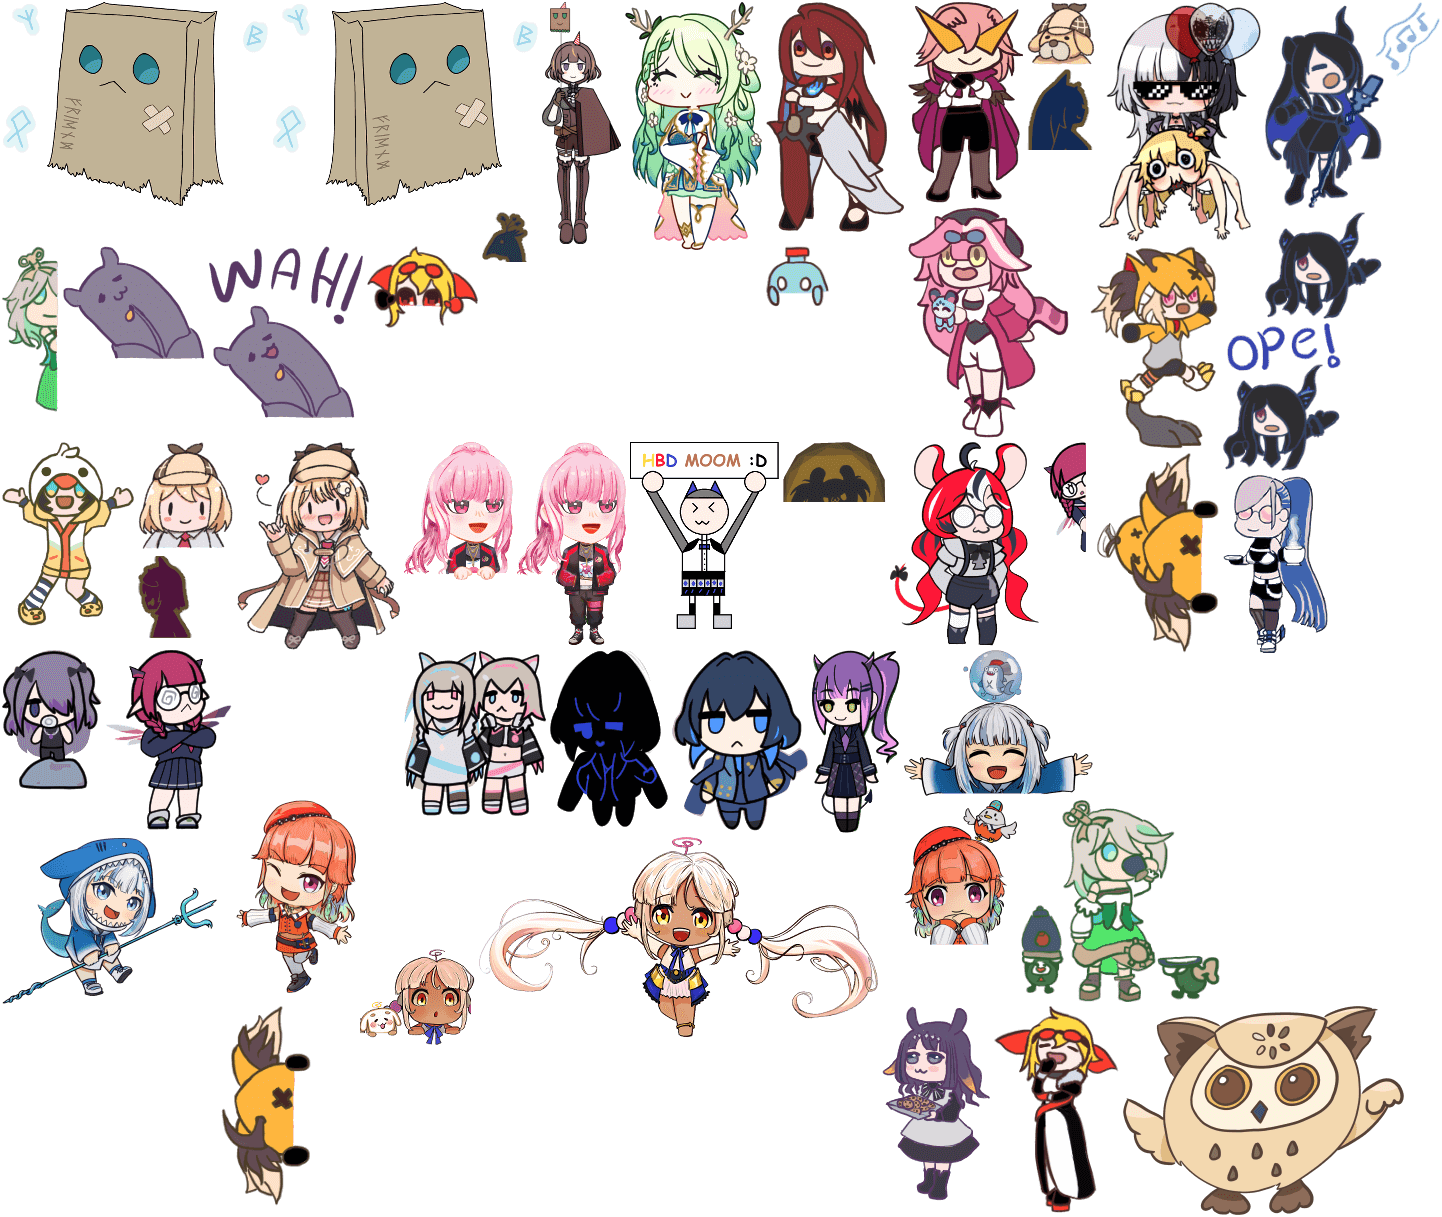
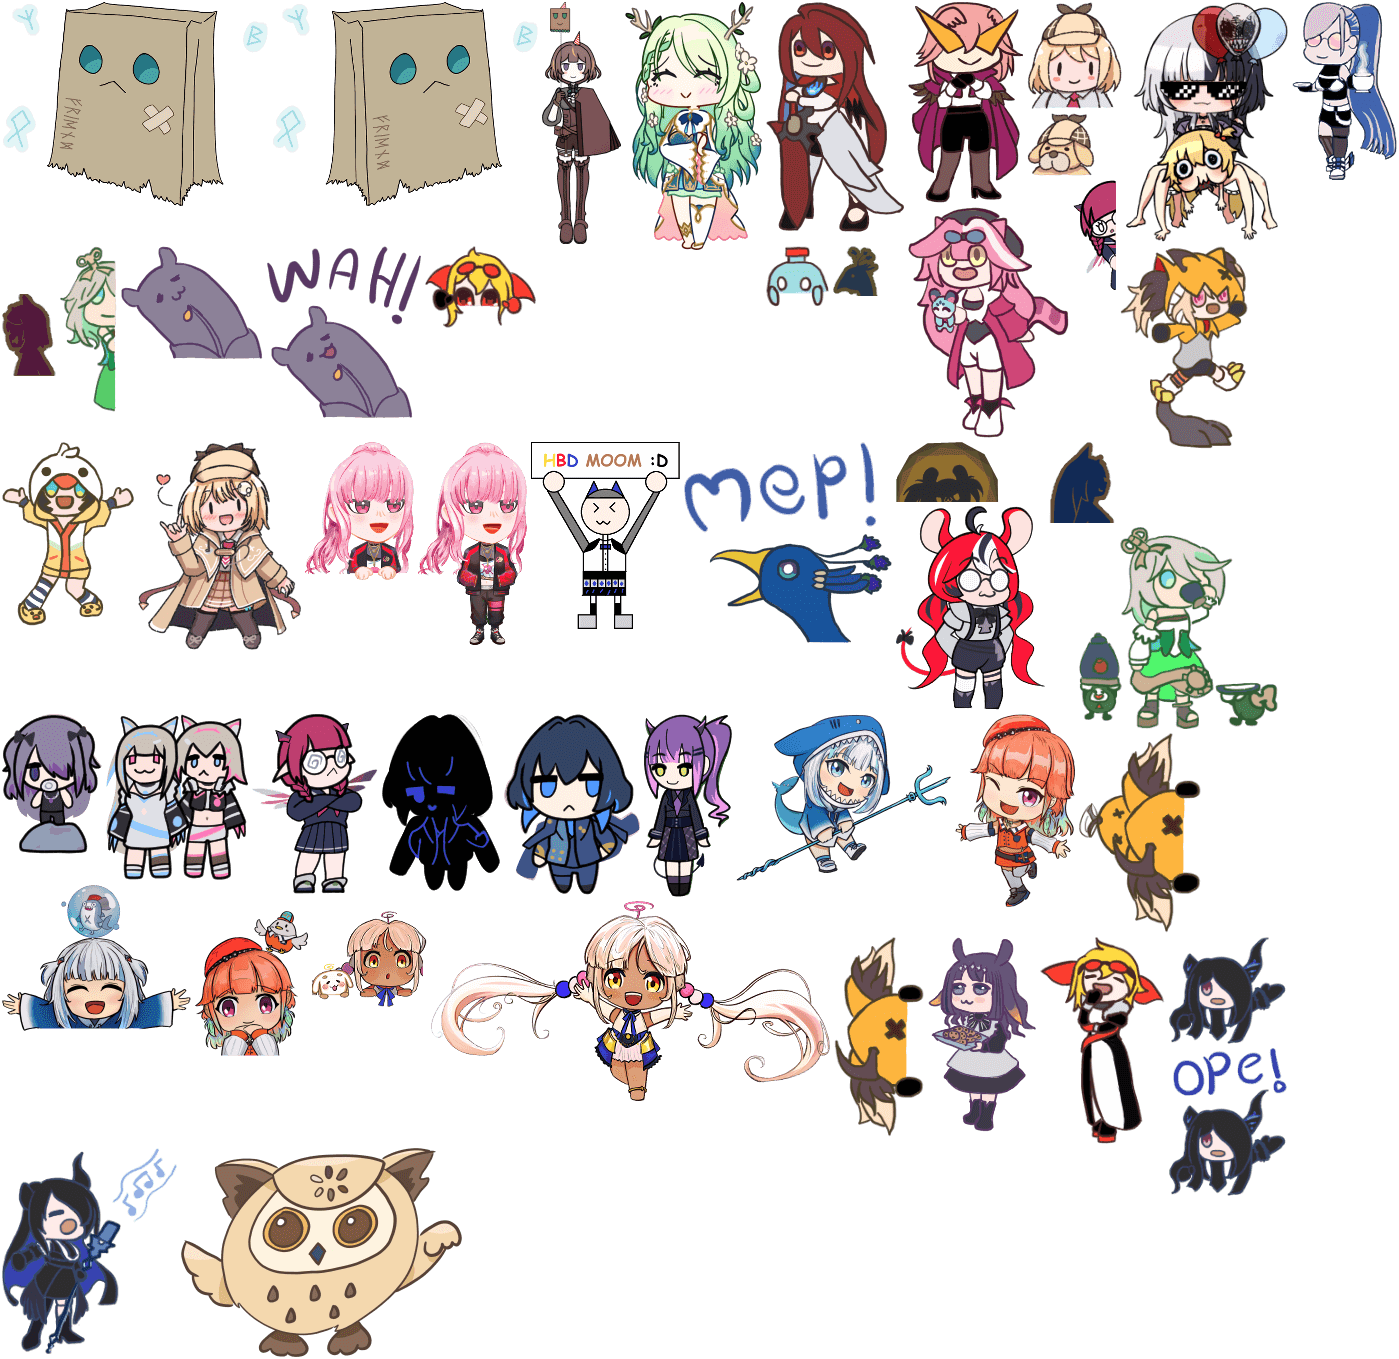
Addded mep npc

diff --git a/src/scenes/amogus/amogus.js b/src/scenes/amogus/amogus.js
@@ -523,7 +523,8 @@ class AmogusScene extends Phaser.Scene {
       [ "sp_Nerissa_-peek_OPE",5605, 1202, 0.7],
       [ "acas_ame", 5997, 1103, 0.6],
       [ "acas_ame1", 5940, 1103, 0.6],
-      ["sp_reine1",2801,1327,0.95],
+      ["mep",2785,1327,0.4],
+      ["sp_reine1",2828,1328,0.8],
       ["nin_MC",2403,4499,0.95,0,true],
       ["nin_BAE-1",1569,4717,0.95,0,true],
       ["nin_FW",2087,4499,0.95,0,true],
